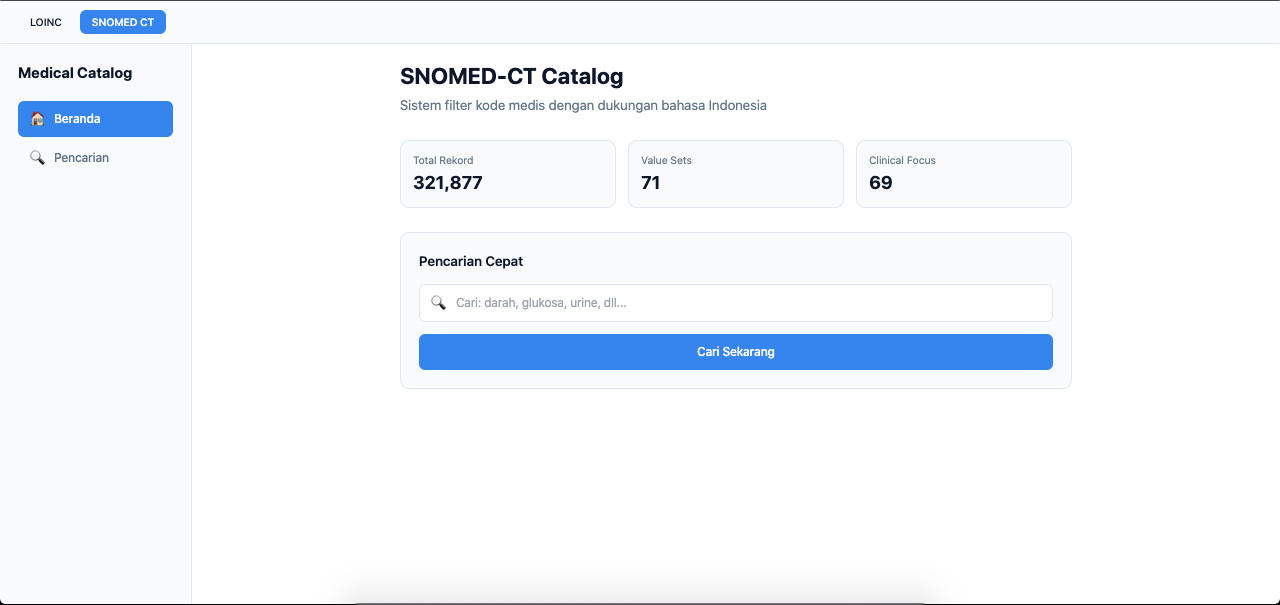
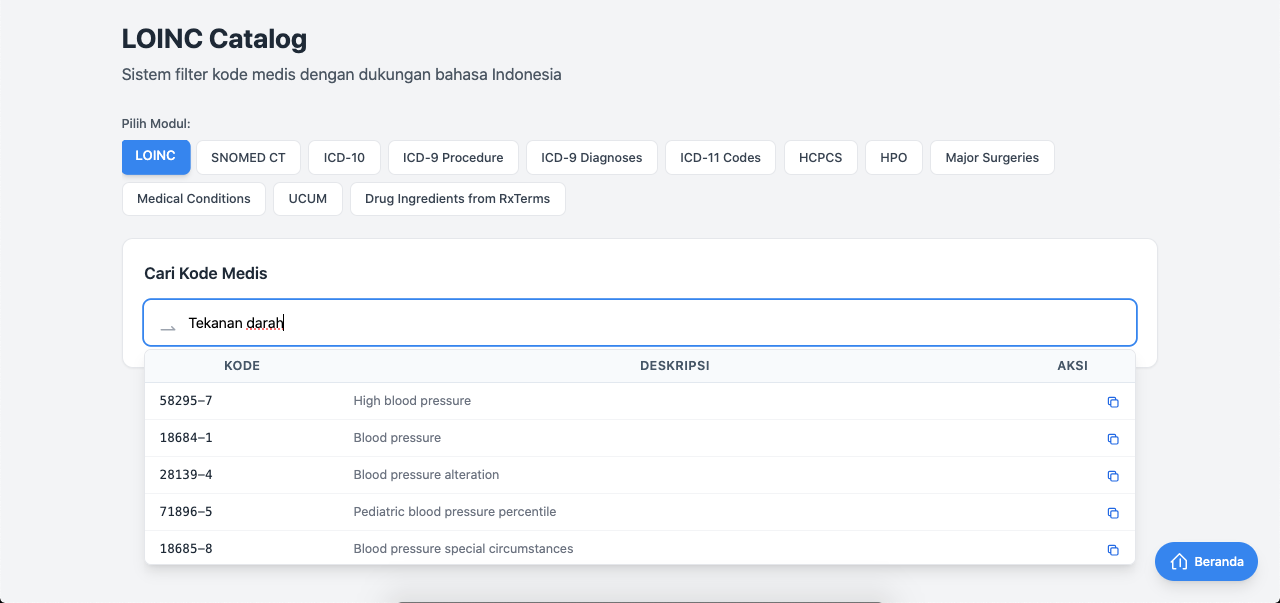
update readme

diff --git a/README.md b/README.md
@@ -1,6 +1,6 @@
-# Catalog LOINC & SNOMED-CT
+# Catalog Medical - Medical Code Catalog System
 
-A web-based medical catalog system with Indonesian language support for searching and filtering LOINC and SNOMED-CT medical codes.
+A comprehensive web-based medical catalog system with Indonesian language support for searching and filtering medical codes from multiple medical terminologies.
 
 ## Features
 
@@ -14,6 +14,8 @@ A web-based medical catalog system with Indonesian language support for searchin
 - **HPO Catalog**: Search and browse Human Phenotype Ontology (REST API)
 - **Major Surgeries and Implants Catalog**: Search and browse major surgeries and implants procedures (REST API)
 - **Medical Conditions Catalog**: Search and browse medical conditions from Regenstrief Institute Medical Gopher program (REST API)
+- **UCUM Catalog**: Search and browse The Unified Code for Units of Measure (REST API)
+- **RxTerms Catalog**: Search and browse Prescribable Drug Ingredients from RxTerms (REST API)
 - **Indonesian Language Support**: Filter and search using Indonesian terminology with Google Translate API
 - **Responsive Design**: Modern UI with Tailwind CSS
 - **Enhanced Search Results**: SNOMED-CT results include Clinical Focus column
@@ -28,10 +30,6 @@ A web-based medical catalog system with Indonesian language support for searchin
 |-----------|-------------|
 | ![Home Page LOINC](screenshoot/screenshoot_1.png) | ![Home Page SNOMED](screenshoot/screenshoot_2.png) |
 
-| Search Page SNOMED | Search Page LOINC |
-|-----------------|----------------|
-| ![Search Page SNOMED](screenshoot/screenshoot_4.png) | ![Search Page LOINC](screenshoot/screenshoot_3.png) |
-
 </div>
 
 ## Data Sources
@@ -40,13 +38,23 @@ A web-based medical catalog system with Indonesian language support for searchin
 |--------|--------|-------------|
 | LOINC | REST API or MySQL Database | Configurable via `use_database` setting in config |
 | SNOMED-CT | [MySQL Database](database/sql/snomed_db.sql) | SNOMED-CT database schema with local MySQL storage |
+| ICD-10 | Clinical Tables API | https://clinicaltables.nlm.nih.gov/api/icd10cm/v3/ |
+| ICD-11 | Clinical Tables API | https://clinicaltables.nlm.nih.gov/api/icd11_codes/v3/ |
+| ICD-9 Procedure | Clinical Tables API | https://clinicaltables.nlm.nih.gov/api/icd9cm_sg/v3/ |
+| ICD-9 Diagnoses | Clinical Tables API | https://clinicaltables.nlm.nih.gov/api/icd9cm_dx/v3/ |
+| HCPCS | Clinical Tables API | https://clinicaltables.nlm.nih.gov/api/hcpcs/v3/ |
+| HPO | Clinical Tables API | https://clinicaltables.nlm.nih.gov/api/hpo/v3/ |
+| Major Surgeries | Clinical Tables API | https://clinicaltables.nlm.nih.gov/api/procedures/v3/ |
+| Medical Conditions | Clinical Tables API | https://clinicaltables.nlm.nih.gov/api/conditions/v3/ |
+| UCUM | Clinical Tables API | https://clinicaltables.nlm.nih.gov/api/ucum/v3/search |
+| RxTerms | Clinical Tables API | https://clinicaltables.nlm.nih.gov/api/drug_ingredients/v3/ |
 
 ## Requirements
 
 - PHP 7.3+ (XAMPP recommended)
 - MySQL 5.7+ (for SNOMED-CT only)
 - Apache HTTP Server
-- Internet connection (for LOINC API access)
+- Internet connection (for API access)
 
 ## Installation
 
@@ -54,7 +62,7 @@ A web-based medical catalog system with Indonesian language support for searchin
 
 ```bash
 cd /Applications/XAMPP/xamppfiles/htdocs/
-# Extract or clone the project to medical_catalog directory
+# Extract or clone the project to catalog_medical directory
 ```
 
 ### 2. Start XAMPP Services
@@ -77,7 +85,7 @@ The database SQL file is located in the `database/sql/` directory:
 mysql -u root -p snomed_db < database/sql/snomed_db.sql
 ```
 
-**Note**: LOINC module uses REST API from clinicaltables.nlm.nih.gov and does not require a local database.
+**Note**: Most modules use REST API from clinicaltables.nlm.nih.gov and do not require a local database.
 
 ### 5. Configure Database Connection (SNOMED-CT only)
 
@@ -107,53 +115,85 @@ http://localhost/catalog_medical/public/
 ```
 catalog_medical/
 ├── config/
-│   └── modules.php          # Main module configuration
+│   └── modules.php              # Main module configuration
 ├── database/
 │   └── sql/
-│       └── snomed_db.sql    # SNOMED-CT database schema
+│       ├── snomed_db.sql        # SNOMED-CT database schema
+│       └── loinc_db.sql         # LOINC database schema (optional)
+├── docs/
+│   └── API documentation files  # API documentation for each module
 ├── modules/
-│   ├── ModuleRegistry.php   # Module registry class
+│   ├── ModuleRegistry.php       # Module registry class
+│   ├── MedicalCatalogModule.php # Unified catalog module
+│   ├── Translator.php           # Indonesian-English translator
 │   ├── loinc/
-│   │   ├── config.php       # LOINC configuration (API-based)
-│   │   ├── LoincModule.php  # LOINC module class
-│   │   ├── LoincSearch.php  # LOINC search functionality
-│   │   ├── LoincApi.php     # LOINC API client
-│   │   └── Translator.php   # Indonesian-English translator
+│   │   ├── config.php           # LOINC configuration
+│   │   ├── LoincModule.php      # LOINC module class
+│   │   ├── LoincSearch.php      # LOINC search functionality
+│   │   ├── LoincApi.php         # LOINC API client
+│   │   └── LoincDbSearch.php    # LOINC database search
 │   ├── snomed/
-│   │   ├── config.php       # SNOMED-CT configuration
-│   │   ├── SnomedModule.php # SNOMED-CT module class
-│   │   └── SnomedSearch.php # SNOMED-CT search functionality
+│   │   ├── config.php           # SNOMED-CT configuration
+│   │   ├── SnomedModule.php     # SNOMED-CT module class
+│   │   └── SnomedSearch.php     # SNOMED-CT search functionality
 │   ├── icd10/
-│   │   ├── config.php       # ICD-10 configuration
-│   │   ├── IcdModule.php    # ICD-10 module class
-│   │   └── IcdSearch.php    # ICD-10 search functionality
+│   │   ├── config.php           # ICD-10 configuration
+│   │   ├── IcdModule.php        # ICD-10 module class
+│   │   └── IcdSearch.php        # ICD-10 search functionality
+│   ├── icd11_codes/
+│   │   ├── config.php           # ICD-11 configuration
+│   │   ├── Icd11Module.php      # ICD-11 module class
+│   │   └── Icd11Search.php      # ICD-11 search functionality
 │   ├── icd9_procedure/
-│   │   ├── config.php       # ICD-9 Procedure configuration
-│   │   ├── Icd9ProcedureModule.php  # ICD-9 Procedure module class
-│   │   ├── Icd9ProcedureSearch.php  # ICD-9 Procedure search functionality
-│   │   └── Icd9ProcedureApi.php     # ICD-9 Procedure API client
+│   │   ├── config.php           # ICD-9 Procedure configuration
+│   │   ├── Icd9ProcedureModule.php
+│   │   ├── Icd9ProcedureSearch.php
+│   │   └── Icd9ProcedureApi.php
+│   ├── icd9_diagnose/
+│   │   ├── config.php           # ICD-9 Diagnoses configuration
+│   │   ├── Icd9DiagnoseModule.php
+│   │   ├── Icd9DiagnoseSearch.php
+│   │   └── Icd9DiagnoseApi.php
 │   ├── hcpcs/
-│   │   ├── config.php       # HCPCS configuration
-│   │   ├── HcpcsModule.php  # HCPCS module class
-│   │   ├── HcpcsSearch.php  # HCPCS search functionality
-│   │   └── HcpcsApi.php     # HCPCS API client
-│   └── hpo/
-│       ├── config.php       # HPO configuration
-│       ├── HpoModule.php    # HPO module class
-│       ├── HpoSearch.php    # HPO search functionality
-│       └── HpoApi.php       # HPO API client
-│   └── major_surgeries_and_implants/
-│       ├── config.php       # Major Surgeries configuration
-│       ├── MajorSurgeriesModule.php  # Major Surgeries module class
-│       ├── MajorSurgeriesSearch.php  # Major Surgeries search functionality
-│       └── MajorSurgeriesApi.php     # Major Surgeries API client
+│   │   ├── config.php           # HCPCS configuration
+│   │   ├── HcpcsModule.php      # HCPCS module class
+│   │   ├── HcpcsSearch.php      # HCPCS search functionality
+│   │   └── HcpcsApi.php         # HCPCS API client
+│   ├── hpo/
+│   │   ├── config.php           # HPO configuration
+│   │   ├── HpoModule.php        # HPO module class
+│   │   ├── HpoSearch.php        # HPO search functionality
+│   │   └── HpoApi.php           # HPO API client
+│   ├── major_surgeries_and_implants/
+│   │   ├── config.php           # Major Surgeries configuration
+│   │   ├── MajorSurgeriesModule.php
+│   │   ├── MajorSurgeriesSearch.php
+│   │   └── MajorSurgeriesApi.php
+│   ├── medical_conditions/
+│   │   ├── config.php           # Medical Conditions configuration
+│   │   ├── MedicalConditionsModule.php
+│   │   ├── MedicalConditionsSearch.php
+│   │   └── MedicalConditionsApi.php
+│   ├── ucum/
+│   │   ├── config.php           # UCUM configuration
+│   │   ├── UcumModule.php       # UCUM module class
+│   │   ├── UcumSearch.php       # UCUM search functionality
+│   │   └── UcumApi.php          # UCUM API client
+│   └── prescribable_drug_ingredients_RxTerms/
+│       ├── config.php           # RxTerms configuration
+│       ├── RxTermsModule.php    # RxTerms module class
+│       ├── RxTermsSearch.php    # RxTerms search functionality
+│       └── RxTermsApi.php       # RxTerms API client
 ├── public/
-│   ├── index.php            # Landing page (hero section, features)
-│   ├── catalog.php          # Main catalog interface (search, results)
+│   ├── index.php                # Landing page (hero section, features)
+│   ├── catalog.php              # Main catalog interface (search, results)
 │   └── assets/
 │       └── css/
-│           └── style.css    # Custom styles
-└── README.md
+│           └── style.css        # Custom styles
+├── screenshoot/
+│   ├── screenshoot_1.png        # Home page LOINC screenshot
+│   └── screenshoot_2.png        # Home page SNOMED screenshot
+└── README.md                    # This file
 ```
 
 ## Usage
@@ -212,6 +252,19 @@ The LOINC module uses the REST API from `clinicaltables.nlm.nih.gov` with the fo
 - `max_limit`: Maximum results limit
 - `enable_translation`: Enable Indonesian-English translation
 
+## API Endpoints
+
+| Endpoint | Description |
+|----------|-------------|
+| `/index.php` | Landing page |
+| `/catalog.php?page=home&module=loinc` | LOINC home page |
+| `/catalog.php?page=home&module=snomed` | SNOMED-CT home page |
+| `/catalog.php?page=search&module=loinc&q=<term>` | Search LOINC |
+| `/catalog.php?page=search&module=snomed&q=<term>` | Search SNOMED-CT |
+| `/catalog.php?page=stats&module=loinc` | LOINC statistics |
+| `/catalog.php?page=stats&module=snomed` | SNOMED-CT statistics |
+| `/catalog.php?ajax=autocomplete&module=loinc&q=<term>` | Autocomplete suggestions |
+
 ## Troubleshooting
 
 ### API Connection Error
@@ -230,19 +283,6 @@ If you see "No such file or directory" error:
 If you see "Unknown character set" error:
 1. Change `charset` from `utf8mb4` to `utf8` in config files
 2. The application will use `SET NAMES utf8mb4` after connection
-
-## API Endpoints
-
-| Endpoint | Description |
-|----------|-------------|
-| `/index.php` | Landing page |
-| `/catalog.php?page=home&module=loinc` | LOINC home page |
-| `/catalog.php?page=home&module=snomed` | SNOMED-CT home page |
-| `/catalog.php?page=search&module=loinc&q=<term>` | Search LOINC |
-| `/catalog.php?page=search&module=snomed&q=<term>` | Search SNOMED-CT |
-| `/catalog.php?page=stats&module=loinc` | LOINC statistics |
-| `/catalog.php?page=stats&module=snomed` | SNOMED-CT statistics |
-| `/catalog.php?ajax=autocomplete&module=loinc&q=<term>` | Autocomplete suggestions |
 
 ## Technology Stack
 